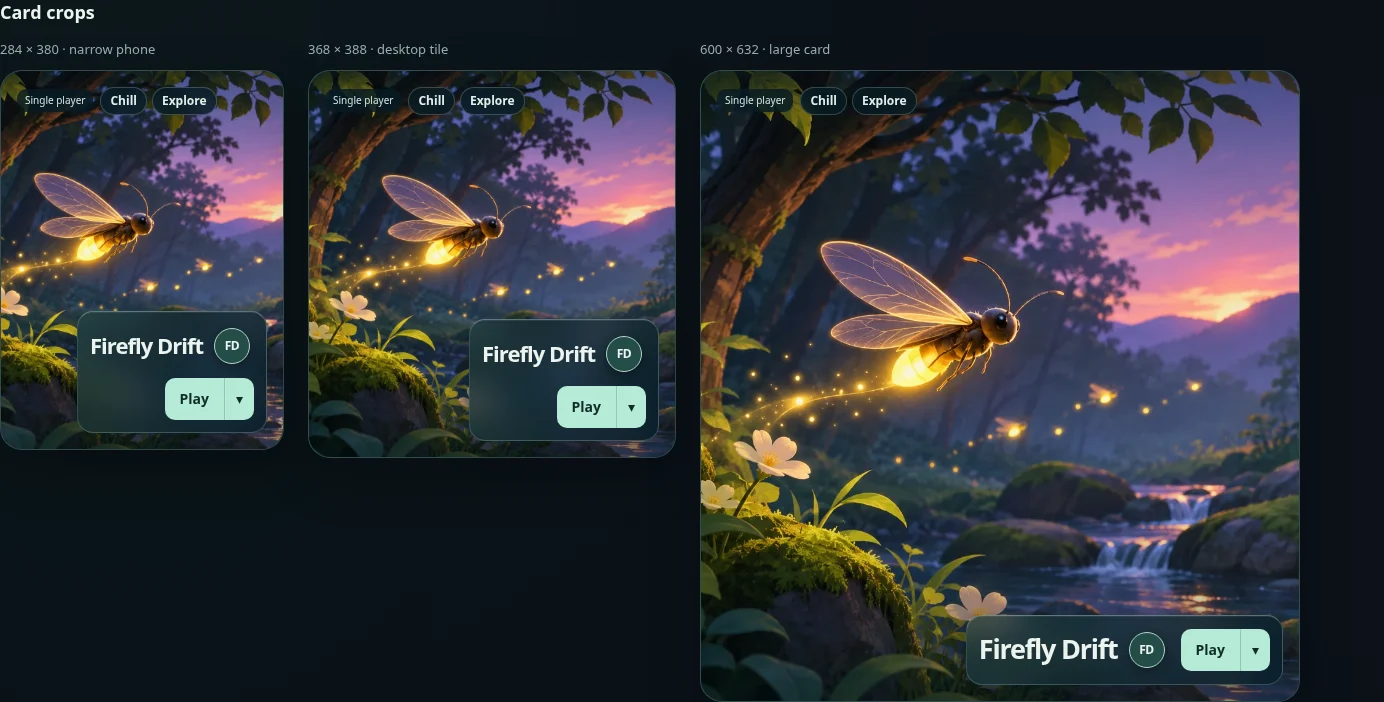
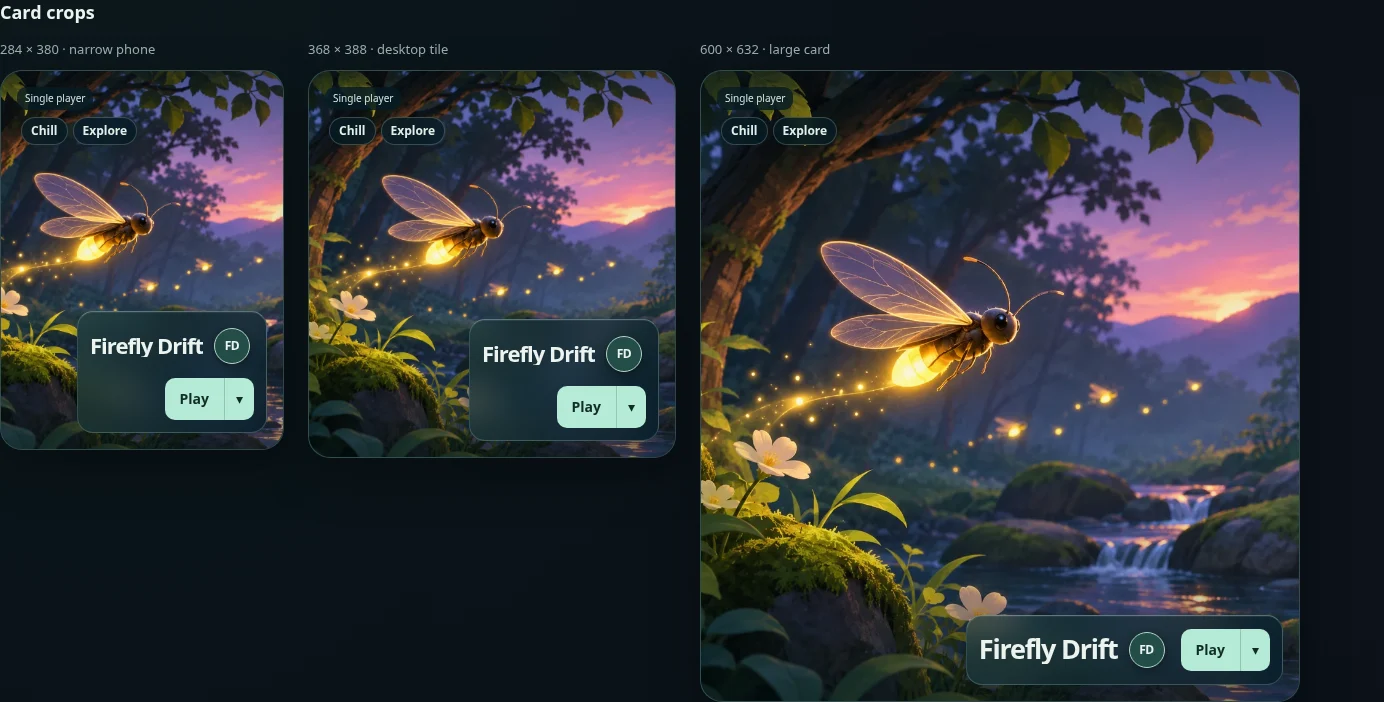
Keep game cover art faithful and protect it with bounded card overlays

Changed region(s): [[0.0, 0.1197, 0.1553, 0.2094], [0.5282, 0.1197, 0.6835, 0.2094], [0.2486, 0.1197, 0.3728, 0.2094]]

diff --git a/web/clubhouse.js b/web/clubhouse.js
@@ -47,27 +47,28 @@ function renderGames() {
     card.dataset.app=game.id;
     const art=el('div',undefined,'game-art game-mark');art.setAttribute('aria-hidden','true');
     const meta=el('div',undefined,'game-meta'),dock=el('div',undefined,'game-dock'),heading=el('div',undefined,'game-heading');
-    heading.append(el('h2',game.title));card.append(art,meta,dock);
+    const title=el('h2',game.title);title.title=game.title;heading.append(title);card.append(art,meta,dock);
     const modes = game.play_modes.map(m => m === 'solo' ? 'Single player' : 'Multiplayer').join(' + ');
-    meta.append(el('p',(game.preview ? 'ADMIN PREVIEW · ' : '') + modes,'game-mode'));
-    const tags=el('div',undefined,'game-tags');for(const tag of game.tags||[]){const chip=el('button',tagLabel(tag),'tag-chip');chip.onclick=()=>{activeTag=activeTag===tag?'':tag;renderFilters();renderGames();};tags.append(chip);}if(game.can_edit_tags){const edit=el('button','＋ Tags','edit-tags');edit.onclick=()=>openTags(game);tags.append(edit);}meta.append(tags);
+    const mode=el('p',(game.preview ? 'ADMIN PREVIEW · ' : '') + modes,'game-mode');mode.title=mode.textContent;meta.append(mode);
+    const tags=el('div',undefined,'game-tags');for(const tag of game.tags||[]){const chip=el('button',tagLabel(tag),'tag-chip');chip.title=tagLabel(tag);chip.onclick=()=>{activeTag=activeTag===tag?'':tag;renderFilters();renderGames();};tags.append(chip);}if(game.can_edit_tags){const edit=el('button','＋ Tags','edit-tags');edit.onclick=()=>openTags(game);tags.append(edit);}meta.append(tags);
     const names = [...new Set(game.players.map(p => p.name + (p.guest ? '’s guest' : '')))];
-    if(names.length)meta.append(el('p',names.join(', ')+' · game open','players'));
     const actions=el('div',undefined,'actions'), play=el('button','Play'), menu=el('details',undefined,'play-menu');
     const arrow=el('summary','▾');arrow.setAttribute('aria-label','Play options for '+game.title);arrow.title='Play options';
     const items=el('div',undefined,'play-menu-items');
+    items.append(el('p',game.title,'menu-game-title'));
     const guest=el('button','Play in guest mode');guest.onclick=()=>{menu.open=false;start(game,play,card,{guest:true});};items.append(guest);
     for(const target of game.join_targets||[]){
       const join=el('button','Join '+target.name);join.onclick=()=>{menu.open=false;start(game,play,card,{intent:{kind:'join_friend',session_id:target.session_id,player_id:target.player_id}});};items.append(join);
     }
     if(game.url){const copy=el('button','Copy game link');copy.onclick=async()=>{try{await navigator.clipboard.writeText(game.url);menu.open=false;notice('Game link copied.');}catch{notice('Open '+game.url+' to share this game.');}};items.append(copy);}
+    if(names.length)items.append(el('p',names.join(', ')+' · game open','players'));
     menu.append(arrow,items);menu.ontoggle=()=>card.classList.toggle('menu-open',menu.open);
     play.onclick=()=>start(game,play,card);actions.append(play,menu);
     const label=game.author?.name?'React to '+game.author.name+'’s game':'React to '+game.title;
     const react=el('button',undefined,'creator react-button');react.type='button';react.setAttribute('aria-label',label);react.setAttribute('aria-haspopup','dialog');
     const avatar=profileAvatar(game.author?.name,game.author?.id||game.id,game.author?.avatar),hint=el('span',label,'reaction-hint');hint.setAttribute('aria-hidden','true');
     react.append(avatar,hint);react.onclick=()=>openReaction(game);heading.append(react);dock.append(heading,actions);
-    if(game.reactions.length){const chips=el('div',undefined,'chips');for(const [emoji]of emojis){const count=game.reactions.filter(r=>r.emoji===emoji).length;if(count)chips.append(el('span',emoji+' '+count,'chip'));}meta.append(chips);}
+    if(game.reactions.length){const chips=el('div',undefined,'chips');for(const [emoji]of emojis){const count=game.reactions.filter(r=>r.emoji===emoji).length;if(count)chips.append(el('span',emoji+' '+count,'chip'));}items.append(chips);}
     games.append(card);
   }
 }
@@ -89,6 +90,9 @@ function renderPresence() {
   if(people.length>2){const extra=people.slice(2),item=el('li','+'+extra.length,'presence-person presence-more');item.tabIndex=0;item.setAttribute('aria-label',extra.map(p=>p.name).join(', ')+' · online');const names=el('span',extra.map(p=>p.name).join(' · '),'presence-name');names.setAttribute('aria-hidden','true');item.append(names);list.append(item);}
 }
 function cancelTagHold(){if(tagHold)clearTimeout(tagHold.timer);tagHold=null;}
+$('games').addEventListener('focusin',event=>{
+  if(event.target.matches('.game-tags > button'))event.target.scrollIntoView({block:'nearest',inline:'nearest'});
+});
 document.addEventListener('pointerdown',event=>{
   cancelTagHold();
   const card=event.target.closest('.game');

diff --git a/web/clubhouse.css b/web/clubhouse.css
@@ -91,8 +91,11 @@ body:has(#welcome:not([hidden])) > main { max-width: none; min-height: 100svh; p
 .game { display: flex; flex-direction: column; gap: 24px; position: relative; isolation: isolate; container-type: inline-size; width: 100%; max-width: 100%; min-width: 0; aspect-ratio: .95; min-height: 380px; padding: 16px; border: 1px solid #ffffff26; border-radius: 22px; overflow: visible; background: #102d32; box-shadow: 0 18px 50px #0004; transition: transform .25s ease,border-color .25s ease,box-shadow .25s ease; }
 .game:before { content: ''; position: absolute; inset: 0; z-index: -1; border-radius: inherit; background: linear-gradient(#03101a66,transparent 30%,transparent 65%,#001b2655); pointer-events: none; }
 .game-art { position: absolute; z-index: -2; inset: 0; border-radius: inherit; background: var(--card-art) center 32% / 88% auto no-repeat, radial-gradient(ellipse at 55% 35%,#38645166,transparent 72%), #0a202b; }
-.game-meta { display: flex; flex-wrap: wrap; align-content: start; align-items: center; gap: 7px; }
-.game-tags { gap: 5px; min-height: 0; margin: 0; justify-content: flex-start; }
+.game-meta { display: grid; grid-template-columns: minmax(0,1fr); align-content: start; gap: 3px; }
+.game-tags { flex-wrap: nowrap; gap: 5px; min-height: 0; margin: 0; padding: 4px; justify-content: flex-start; overflow-x: auto; scrollbar-width: thin; }
+.game-tags > button { scroll-margin-inline: 4px; flex: none; max-width: 100%; overflow: hidden; white-space: nowrap; text-overflow: ellipsis; }
+.game-tags > button:focus-visible { outline-offset: 1px; }
+.game-meta > .game-mode { width: fit-content; max-width: 100%; overflow: hidden; white-space: nowrap; text-overflow: ellipsis; }
 .game-tags .tag-chip,.edit-tags { background: #061b25cf; border-color: #d6f4e238; color: #e2efe6; min-height: 28px; padding: 4px 9px; backdrop-filter: blur(8px); }
 .edit-tags { border-style: dashed; opacity: 0; pointer-events: none; }
 .game-tags:focus-within .edit-tags { opacity: 1; pointer-events: auto; }
@@ -101,6 +104,9 @@ body:has(#welcome:not([hidden])) > main { max-width: none; min-height: 100svh; p
 .game-dock { position: relative; align-self: flex-end; margin-top: auto; width: max-content; max-width: 100%; padding: 12px; display: flex; flex-wrap: wrap; justify-content: flex-end; align-items: center; gap: 10px 12px; border: 1px solid #b9f5ee35; border-top-color: #d8fff45c; border-radius: 16px; background: linear-gradient(125deg,#173e4080,#071e2be8); backdrop-filter: blur(16px) saturate(.8); box-shadow: 0 8px 30px #00101855,inset 0 1px #fff1; }
 .game-heading { display: flex; justify-content: flex-end; align-items: center; gap: 7px; min-width: 0; }
 .game h2 { min-width: 0; margin: 0; text-align: right; font-size: clamp(22px,5.5cqw,27px); font-weight: 650; line-height: 1.05; letter-spacing: -.045em; }
+.game-heading h2 { display: -webkit-box; -webkit-box-orient: vertical; -webkit-line-clamp: 2; line-clamp: 2; overflow: hidden; overflow-wrap: anywhere; }
+.play-menu-items .menu-game-title { margin: 0 0 8px; color: var(--ink); font-size: 14px; line-height: 1.4; font-weight: 600; overflow-wrap: anywhere; }
+.play-menu-items .players,.play-menu-items .chips { margin: 8px 0; }
 .actions { grid-area: auto; display: flex; flex: none; margin-left: auto; gap: 0; }
 .creator { position: relative; display: grid; place-items: center; flex: none; width: 44px; min-height: 44px; padding: 4px; border: 0; border-radius: 50%; background: transparent; }
 .creator:hover { background: #b5ead614; }

diff --git a/docs/card-art-guide.md b/docs/card-art-guide.md
@@ -1,6 +1,6 @@
 # Infuser card hero art
 
-**Draft 0.1 — artwork preparation and review.** This guide specifies the image
+**Draft 0.2 — artwork preparation and review.** This guide specifies the image
 for a Library card. Automatic registration of game artwork is not implemented
 yet: preparing these files does not install them in the live Library. Do not add
 invented artwork fields to `infuser.game.json` or call an undocumented API.
@@ -17,9 +17,14 @@ Keep its defining shapes and palette. An environment, vehicle, object, or abstra
 pattern can lead the image; a character is not required. Do not invent a mascot,
 mode, location, or feature to make the game appear more elaborate than it is.
 
-Aim for confident, polished game key art with a strong silhouette, clear depth,
-and a few well-chosen highlights. Preserve the game's own visual language: pixel
-art, low-poly, illustrated, graphic, and other deliberate styles are welcome.
+Make a **faithful cover illustration**: lighting, framing, and finish may be more
+polished than a gameplay frame, but recognizable characters, objects, environments,
+and the game's core identity must match the actual project. Do not substitute a
+generic attractive scene for the game's distinctive features. A different rendering
+technique is acceptable when those features remain recognizable; an exact screenshot
+look is not required. Use a strong silhouette, clear depth, and a few well-chosen
+highlights. Pixel art, low-poly, illustrated, graphic, and other deliberate styles
+are welcome.
 Infuser's dark interface is the frame, not a requirement to turn every game into
 a neon city. Bright, warm, or daylight scenes can work too.
 
@@ -57,15 +62,24 @@ current cards are about 0.95:1 width-to-height; a narrow phone can reach about
 0.75:1 because of the card's minimum height. A square source can therefore lose
 roughly 13% from **each side**. Corners are rounded by the interface.
 
-Coordinates below are percentages of the **source image**, measured from the
-top-left. They are composition guides, not visible marks to paint into the art.
+**Choose the subject's position freely within the crop-safe area.** There is no
+required focal coordinate, pose, direction, or repeated composition. Wide vistas,
+asymmetric subjects, and object-led images should not all look like the same
+centered portrait. Keep the identifying feature visible through both cropping
+and the actual overlays described below.
 
 | Region | How to use it |
 | --- | --- |
-| Outer 15% on left and right | Expendable scenery and atmosphere. No essential face, object, or defining feature here. |
-| Main subject: x 25–70%, y 25–62% | Keep the identifying silhouette or key feature here. A useful focal point is around x 42%, y 43%. Avoid a tiny subject lost in scenery. |
-| Top 22% | Quieter background for mode/category chips. No crucial face or high-detail action behind them. |
-| Lower-right: x 35–100%, y 65–100% | Low-detail supporting scenery. The title, author portrait, and Play dock can cover this area. Longer titles and narrow screens make the dock larger. |
+| Outer 15% on left and right of the source | Expendable scenery and atmosphere. No essential face, object, or defining feature here. |
+| Top of the rendered card | Quieter supporting scenery behind one mode line and one horizontally scrollable tag row. At the smallest card, allow roughly the top quarter for metadata and inset. |
+| Lower right of the rendered card | Supporting scenery behind the compact title/author/Play dock. The title is capped at two lines. On the smallest card, allow roughly the bottom 40% including the inset; the dock may span nearly its full width. |
+| Remaining visible artwork | Place the identifying feature wherever it reads best. Avoid a tiny subject lost in scenery. Judge the actual overlay preview rather than aiming at a fixed percentage coordinate. |
+
+Infuser limits the overlays rather than asking the artist to reserve ever more
+space: tags stay in one scrollable row, titles show at most two lines, and player
+names/reaction counts live in the existing dropdown. The dropdown also exposes
+the full title on touch devices; the full heading remains available to assistive
+technology. Expanded menus are temporary interactions, not permanent art masks.
 
 Use the rest of the canvas to establish the world. One strong subject, one clear
 direction of movement or depth, and restrained secondary detail usually work
@@ -102,8 +116,10 @@ Do not describe an invented illustration as a gameplay capture.
 3. Preview centered-cover crops at **368 × 388 px** and **284 × 380 px**, plus a
    larger **600 × 632 px** card. Important content must survive all three.
 4. Place the actual Library overlay over each crop: top metadata and the
-   bottom-right title/author/Play dock. Check a long wrapped title and several
-   tags too. A nominal safe region cannot guarantee every possible text length.
+   bottom-right title/author/Play dock. Check a long title and many tags too:
+   the title must remain capped at two lines and tags at one scrollable row.
+   If metadata grows over the subject, fix the UI bounds instead of adding a
+   larger permanent blank area to the image.
 5. Check the finished WebP, not only the source. Look for muddy edges, banding,
    compression ringing, accidental text, malformed objects, or baked-in patterns.
 

diff --git a/docs/design-explorations/card-art-guide/README.md b/docs/design-explorations/card-art-guide/README.md
@@ -1,6 +1,6 @@
 # Card hero guide: Firefly Drift trial
 
-This is the first test of [the draft guide](../../card-art-guide.md). It is a
+This is the first test of version 0.1 of [the draft guide](../../card-art-guide.md). It is a
 review fixture, not the artwork of a published game.
 
 ## Input and result
@@ -13,7 +13,11 @@ direction was supplied. [prompt.txt](prompt.txt) records that exact input.
 The generator interpreted the title as a golden firefly moving through a forest
 stream at dusk. This is **AI-generated, unverified concept art**; it is not a
 gameplay screenshot and does not establish what Firefly Drift actually contains.
-The first render was used without a corrective generation pass.
+The first render was used without a corrective generation pass. The guide is now
+at 0.2 following the selected policy: faithful cover illustration, flexible subject
+placement, and bounded overlays. The original 0.1 prompt is preserved unchanged;
+the screenshots and preview use the updated overlay limits. This is not a new
+generation claimed to test the revised guide's game-fidelity requirements.
 
 The square generated source was 1254 × 1254. It was resized once to 1024 × 1024,
 converted to opaque sRGB, stripped of metadata, and encoded as quality-84 WebP.
@@ -33,8 +37,8 @@ Serve the repository root with a static file server and open
 - Verified exact 284 × 380, 368 × 388, and 600 × 632 card crops in Chromium.
 - The main firefly remains identifiable and unobscured in all three crops.
 - The lower-right scene continues behind the dock; no blank panel or baked UI.
-- A long title and five tags also leave the identifying subject visible. The
-  available art area becomes noticeably smaller, as expected.
+- A long title is capped at two lines, and five tags occupy one horizontally
+  scrollable row. Metadata no longer expands over the art as its content grows.
 - The 96px thumbnail retains the luminous insect silhouette; fine background
   leaves and flowers are secondary and need not remain individually legible.
 - Preview page fits 320px and 390px viewports; docks remain within their cards.

diff --git a/docs/design.md b/docs/design.md
@@ -46,6 +46,11 @@ a content-sized glass dock and the approved Infuser artwork as a fallback until
 game-provided hero art has an agreed contract. Fictional art stays in mockups.
 The draft [card hero art guide](card-art-guide.md) defines composition and export
 requirements for review; it does not introduce an artwork API or manifest field.
+Game art may use polished cover illustration while preserving the game's real
+identity. Allow flexible compositions within the crop-safe area. Protect the art
+by capping titles at two lines and tags at one horizontally scrollable row. The
+existing dropdown exposes the full title, player names, and reaction counts;
+metadata must not grow indefinitely over the image.
 
 Online players appear as overlapping avatars beside the logo. Filters and search
 share a row, with the game count after the final filter. Tag editing appears on
